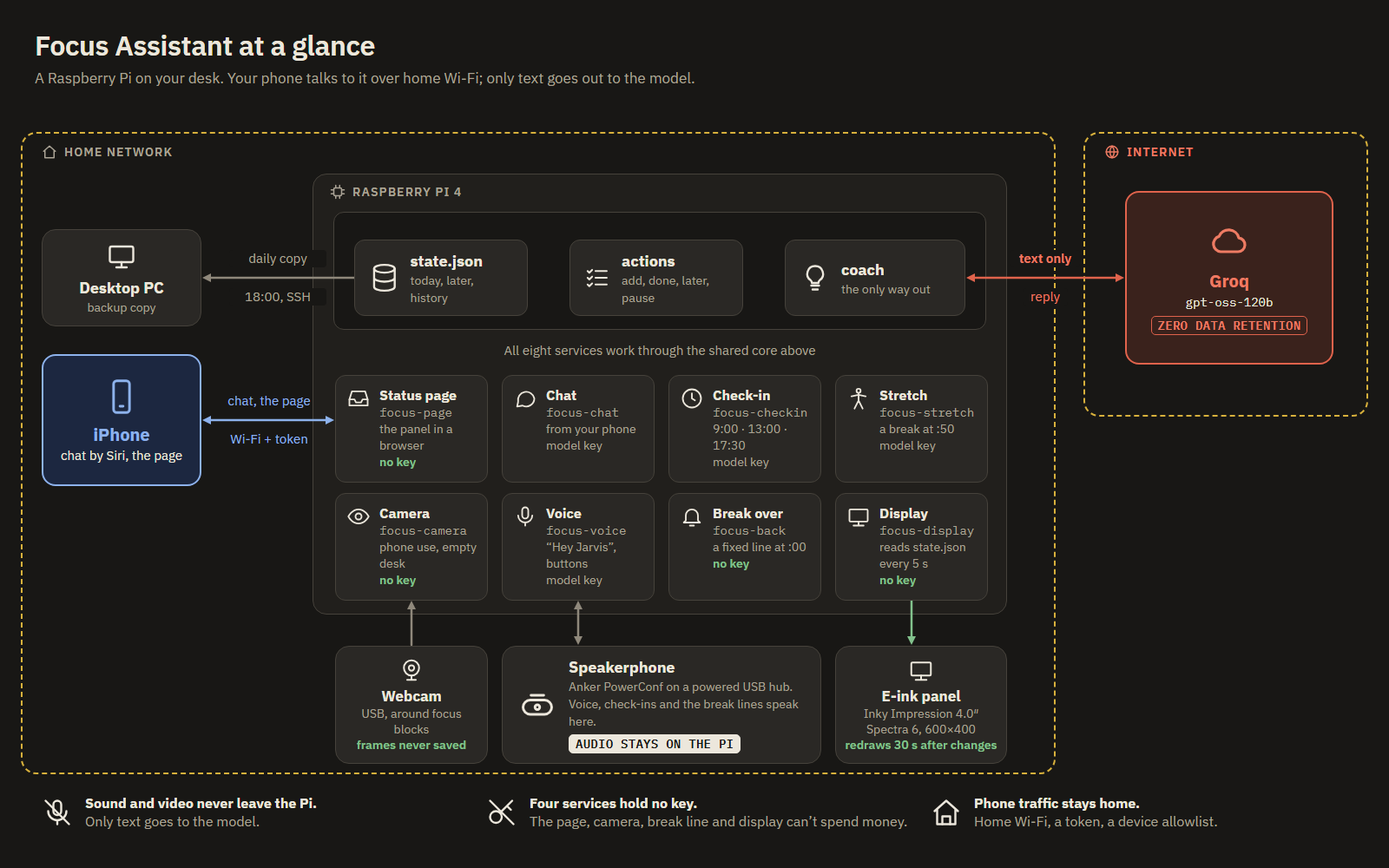
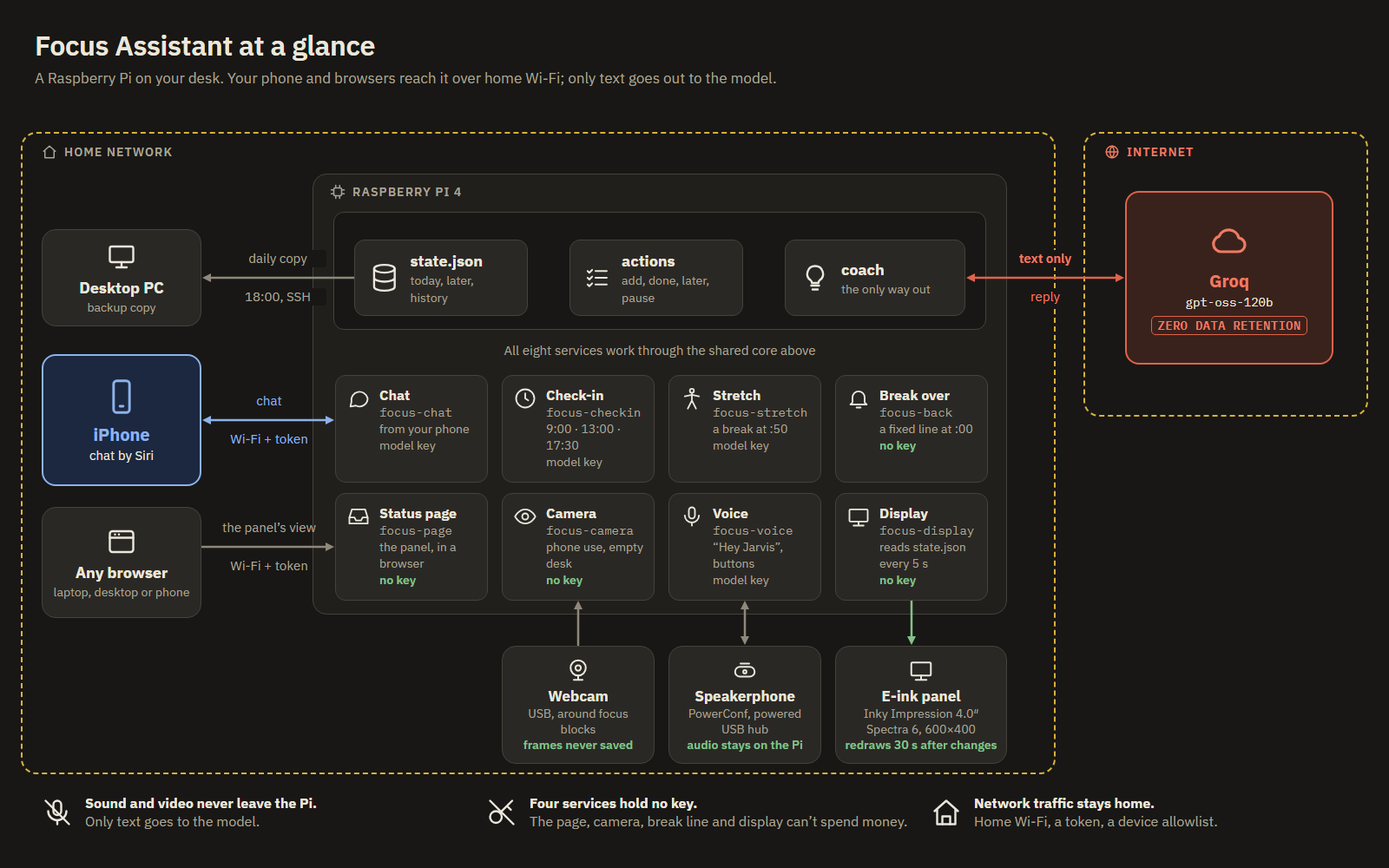
Show the status page as the panel's view in any browser; add a "What next" to install
The diagrams drew the status page as an iPhone feature next to chat. It's
the e-ink panel's view for any browser on the home network, so it now has
its own "Any browser" box (and label in the detailed diagram), and the
README no longer calls it a preview while the panel is on its way.

install.md ends its setup with a table of the optional features, what
each needs, and its guide, in an order that builds up. The hardware lists
and routine.md mention the webcam and what to do when it gets you wrong.

diff --git a/docs/diagrams/architecture-simple.html b/docs/diagrams/architecture-simple.html
@@ -32,17 +32,21 @@ a{color:#1f4f9c}a:hover{color:#191815}
 <svg width="152" height="8" viewBox="0 0 152 8" preserveAspectRatio="none" style="position: absolute; left: 233px; top: 480px; width: 152px; height: 8px; overflow: visible; fill: none; stroke: var(--phone); stroke-width: 2.5; stroke-linecap: round; stroke-linejoin: round"><defs><marker id="dc-arrow-head-filled-1" orient="auto-start-reverse" markerWidth="5" markerHeight="5" refX="2" refY="2" overflow="visible"><path d="M0 0 L4 2 L0 4 Z" fill="#1f4f9c" stroke="none" style="stroke: none; fill: #1f4f9c; fill: context-stroke"/></marker></defs><path d="M 5 4 L 147 4" marker-start="url(#dc-arrow-head-filled-1)" marker-end="url(#dc-arrow-head-filled-1)"></path></svg>
 <svg width="175" height="8" viewBox="0 0 175 8" preserveAspectRatio="none" style="position: absolute; left: 233px; top: 316px; width: 175px; height: 8px; overflow: visible; fill: none; stroke: var(--line); stroke-width: 2.5; stroke-linecap: round; stroke-linejoin: round"><defs><marker id="dc-arrow-head-filled-2" orient="auto" markerWidth="5" markerHeight="5" refX="2" refY="2" overflow="visible"><path d="M0 0 L4 2 L0 4 Z" fill="#847d70" stroke="none" style="stroke: none; fill: #847d70; fill: context-stroke"/></marker></defs><path d="M 175 4 L 5 4" marker-end="url(#dc-arrow-head-filled-2)"></path></svg>
 <svg width="182" height="8" viewBox="0 0 182 8" preserveAspectRatio="none" style="position: absolute; left: 1113px; top: 316px; width: 182px; height: 8px; overflow: visible; fill: none; stroke: var(--host-line); stroke-width: 2.5; stroke-linecap: round; stroke-linejoin: round"><defs><marker id="dc-arrow-head-filled-3" orient="auto-start-reverse" markerWidth="5" markerHeight="5" refX="2" refY="2" overflow="visible"><path d="M0 0 L4 2 L0 4 Z" fill="#c0392b" stroke="none" style="stroke: none; fill: #c0392b; fill: context-stroke"/></marker></defs><path d="M 5 4 L 177 4" marker-start="url(#dc-arrow-head-filled-3)" marker-end="url(#dc-arrow-head-filled-3)"></path></svg>
-<svg width="8" height="51" viewBox="0 0 8 51" preserveAspectRatio="none" style="position: absolute; left: 662px; top: 692px; width: 8px; height: 51px; overflow: visible; fill: none; stroke: var(--line); stroke-width: 2.5; stroke-linecap: round; stroke-linejoin: round"><defs><marker id="dc-arrow-head-filled-4" orient="auto-start-reverse" markerWidth="5" markerHeight="5" refX="2" refY="2" overflow="visible"><path d="M0 0 L4 2 L0 4 Z" fill="#847d70" stroke="none" style="stroke: none; fill: #847d70; fill: context-stroke"/></marker></defs><path d="M 4 5 L 4 46" marker-start="url(#dc-arrow-head-filled-4)" marker-end="url(#dc-arrow-head-filled-4)"></path></svg>
+<svg width="8" height="51" viewBox="0 0 8 51" preserveAspectRatio="none" style="position: absolute; left: 854px; top: 692px; width: 8px; height: 51px; overflow: visible; fill: none; stroke: var(--line); stroke-width: 2.5; stroke-linecap: round; stroke-linejoin: round"><defs><marker id="dc-arrow-head-filled-4" orient="auto-start-reverse" markerWidth="5" markerHeight="5" refX="2" refY="2" overflow="visible"><path d="M0 0 L4 2 L0 4 Z" fill="#847d70" stroke="none" style="stroke: none; fill: #847d70; fill: context-stroke"/></marker></defs><path d="M 4 5 L 4 46" marker-start="url(#dc-arrow-head-filled-4)" marker-end="url(#dc-arrow-head-filled-4)"></path></svg>
 <svg width="8" height="51" viewBox="0 0 8 51" preserveAspectRatio="none" style="position: absolute; left: 1046px; top: 692px; width: 8px; height: 51px; overflow: visible; fill: none; stroke: var(--nokey); stroke-width: 2.5; stroke-linecap: round; stroke-linejoin: round"><defs><marker id="dc-arrow-head-filled-5" orient="auto" markerWidth="5" markerHeight="5" refX="2" refY="2" overflow="visible"><path d="M0 0 L4 2 L0 4 Z" fill="#847d70" stroke="none" style="stroke: none; fill: #847d70; fill: context-stroke"/></marker></defs><path d="M 4 0 L 4 46" marker-end="url(#dc-arrow-head-filled-5)"></path></svg>
-<svg width="8" height="51" viewBox="0 0 8 51" preserveAspectRatio="none" style="position: absolute; left: 470px; top: 692px; width: 8px; height: 51px; overflow: visible; fill: none; stroke: var(--line); stroke-width: 2.5; stroke-linecap: round; stroke-linejoin: round"><defs><marker id="dc-arrow-head-filled-6" orient="auto" markerWidth="5" markerHeight="5" refX="2" refY="2" overflow="visible"><path d="M0 0 L4 2 L0 4 Z" fill="#847d70" stroke="none" style="stroke: none; fill: #847d70; fill: context-stroke"/></marker></defs><path d="M 4 51 L 4 5" marker-end="url(#dc-arrow-head-filled-6)"></path></svg>
+<svg width="8" height="51" viewBox="0 0 8 51" preserveAspectRatio="none" style="position: absolute; left: 662px; top: 692px; width: 8px; height: 51px; overflow: visible; fill: none; stroke: var(--line); stroke-width: 2.5; stroke-linecap: round; stroke-linejoin: round"><defs><marker id="dc-arrow-head-filled-6" orient="auto" markerWidth="5" markerHeight="5" refX="2" refY="2" overflow="visible"><path d="M0 0 L4 2 L0 4 Z" fill="#847d70" stroke="none" style="stroke: none; fill: #847d70; fill: context-stroke"/></marker></defs><path d="M 4 51 L 4 5" marker-end="url(#dc-arrow-head-filled-6)"></path></svg>
+
+<svg width="152" height="8" viewBox="0 0 152 8" preserveAspectRatio="none" style="position: absolute; left: 233px; top: 626px; width: 152px; height: 8px; overflow: visible; fill: none; stroke: var(--line); stroke-width: 2.5; stroke-linecap: round; stroke-linejoin: round"><defs><marker id="dc-arrow-head-filled-7" orient="auto" markerWidth="5" markerHeight="5" refX="2" refY="2" overflow="visible"><path d="M0 0 L4 2 L0 4 Z" fill="#847d70" stroke="none" style="stroke: none; fill: #847d70; fill: context-stroke"/></marker></defs><path d="M 0 4 L 147 4" marker-end="url(#dc-arrow-head-filled-7)"></path></svg>
 
 <!-- title -->
 <div style="position: absolute; left: 40px; top: 32px; font-size: 32px; line-height: 40px; font-weight: 600; letter-spacing: -0.01em">Focus Assistant at a glance</div>
-<div style="position: absolute; left: 40px; top: 78px; width: 900px; font-size: 17px; line-height: 24px; color: var(--muted)">A Raspberry Pi on your desk. Your phone talks to it over home Wi-Fi; only text goes out to the model.</div>
+<div style="position: absolute; left: 40px; top: 78px; width: 900px; font-size: 17px; line-height: 24px; color: var(--muted)">A Raspberry Pi on your desk. Your phone and browsers reach it over home Wi-Fi; only text goes out to the model.</div>
 
 <!-- people and devices -->
-<div style="position: absolute; left: 48px; top: 408px; width: 184px; height: 152px; box-sizing: border-box; display: flex; flex-direction: column; align-items: center; justify-content: center; gap: 8px; padding: 12px; text-align: center; background: var(--phone-bg); border: 2px solid var(--phone); border-radius: 16px; color: var(--phone)"><svg width="44" height="44" viewBox="0 0 24 24" fill="none" stroke="currentColor" stroke-width="1.6" stroke-linecap="round" stroke-linejoin="round" aria-hidden="true"><rect x="7" y="2" width="10" height="20" rx="2"></rect><path d="M11 18h2"></path></svg><span><b style="font-size: 20px">iPhone</b><br><span style="font-size: 15px; color: var(--ink)">chat by Siri, the page</span></span></div>
+<div style="position: absolute; left: 48px; top: 408px; width: 184px; height: 152px; box-sizing: border-box; display: flex; flex-direction: column; align-items: center; justify-content: center; gap: 8px; padding: 12px; text-align: center; background: var(--phone-bg); border: 2px solid var(--phone); border-radius: 16px; color: var(--phone)"><svg width="44" height="44" viewBox="0 0 24 24" fill="none" stroke="currentColor" stroke-width="1.6" stroke-linecap="round" stroke-linejoin="round" aria-hidden="true"><rect x="7" y="2" width="10" height="20" rx="2"></rect><path d="M11 18h2"></path></svg><span><b style="font-size: 20px">iPhone</b><br><span style="font-size: 15px; color: var(--ink)">chat by Siri</span></span></div>
 <div style="position: absolute; left: 48px; top: 264px; width: 184px; height: 112px; box-sizing: border-box; display: flex; flex-direction: column; align-items: center; justify-content: center; gap: 6px; padding: 10px; text-align: center; background: var(--card); border: 1.5px solid var(--border); border-radius: 16px"><svg width="36" height="36" viewBox="0 0 24 24" fill="none" stroke="currentColor" stroke-width="1.6" stroke-linecap="round" stroke-linejoin="round" aria-hidden="true"><rect x="3" y="4" width="18" height="12" rx="1.5"></rect><path d="M8 20h8M12 16v4"></path></svg><span><b style="font-size: 18px">Desktop PC</b><br><span class="s" style="font-size: 14px">backup copy</span></span></div>
+
+<div style="position: absolute; left: 48px; top: 584px; width: 184px; height: 128px; box-sizing: border-box; display: flex; flex-direction: column; align-items: center; justify-content: center; gap: 6px; padding: 10px; text-align: center; background: var(--card); border: 1.5px solid var(--border); border-radius: 16px"><svg width="36" height="36" viewBox="0 0 24 24" fill="none" stroke="currentColor" stroke-width="1.6" stroke-linecap="round" stroke-linejoin="round" aria-hidden="true"><rect x="3" y="4" width="18" height="16" rx="2"></rect><path d="M3 9h18M7 6.5h.01M10 6.5h.01"></path></svg><span><b style="font-size: 18px">Any browser</b><br><span class="s" style="font-size: 14px">laptop, desktop or phone</span></span></div>
 
 <!-- shared core -->
 <div style="position: absolute; left: 408px; top: 276px; width: 200px; height: 88px; box-sizing: border-box; display: flex; align-items: center; gap: 12px; padding: 10px 16px; background: var(--card); border: 1.5px solid var(--border); border-radius: 12px"><svg width="36" height="36" viewBox="0 0 24 24" fill="none" stroke="currentColor" stroke-width="1.6" stroke-linecap="round" stroke-linejoin="round" aria-hidden="true"><ellipse cx="12" cy="5" rx="8" ry="3"></ellipse><path d="M4 5v14c0 1.7 3.6 3 8 3s8-1.3 8-3V5M4 12c0 1.7 3.6 3 8 3s8-1.3 8-3"></path></svg><span><b style="font-size: 18px">state.json</b><br><span class="s" style="font-size: 14px">today, later, history</span></span></div>
@@ -50,35 +54,37 @@ a{color:#1f4f9c}a:hover{color:#191815}
 <div style="position: absolute; left: 904px; top: 276px; width: 208px; height: 88px; box-sizing: border-box; display: flex; align-items: center; gap: 12px; padding: 10px 16px; background: var(--card); border: 1.5px solid var(--border); border-radius: 12px"><svg width="36" height="36" viewBox="0 0 24 24" fill="none" stroke="currentColor" stroke-width="1.6" stroke-linecap="round" stroke-linejoin="round" aria-hidden="true"><path d="M9 18h6M10 21h4M12 3a6 6 0 0 0-3.5 10.9c.6.5 1 1.2 1 2.1h5c0-.9.4-1.6 1-2.1A6 6 0 0 0 12 3z"></path></svg><span><b style="font-size: 18px">coach</b><br><span class="s" style="font-size: 14px">the only way out</span></span></div>
 
 <!-- services -->
-<div style="position: absolute; left: 386px; top: 432px; width: 176px; height: 124px; box-sizing: border-box; display: flex; align-items: flex-start; gap: 10px; padding: 12px; background: var(--card); border: 1.5px solid var(--border); border-radius: 12px; font-size: 14px; line-height: 19px"><svg width="28" height="28" style="flex: none" viewBox="0 0 24 24" fill="none" stroke="currentColor" stroke-width="1.6" stroke-linecap="round" stroke-linejoin="round" aria-hidden="true"><path d="M3 13h5l1.5 3h5L16 13h5"></path><path d="M5.5 5h13L21 13v6H3v-6z"></path></svg><span><b style="font-size: 16px; line-height: 21px">Status page</b><br><span class="u">focus-page</span><br><span class="s">the panel in a browser</span><br><span class="nk">no key</span></span></div>
-<div style="position: absolute; left: 578px; top: 432px; width: 176px; height: 124px; box-sizing: border-box; display: flex; align-items: flex-start; gap: 10px; padding: 12px; background: var(--card); border: 1.5px solid var(--border); border-radius: 12px; font-size: 14px; line-height: 19px"><svg width="28" height="28" style="flex: none" viewBox="0 0 24 24" fill="none" stroke="currentColor" stroke-width="1.6" stroke-linecap="round" stroke-linejoin="round" aria-hidden="true"><path d="M21 12a8 8 0 0 1-11.6 7.1L4 20l1-4.6A8 8 0 1 1 21 12z"></path></svg><span><b style="font-size: 16px; line-height: 21px">Chat</b><br><span class="u">focus-chat</span><br><span class="s">from your phone</span><br><span class="s">model key</span></span></div>
-<div style="position: absolute; left: 770px; top: 432px; width: 176px; height: 124px; box-sizing: border-box; display: flex; align-items: flex-start; gap: 10px; padding: 12px; background: var(--card); border: 1.5px solid var(--border); border-radius: 12px; font-size: 14px; line-height: 19px"><svg width="28" height="28" style="flex: none" viewBox="0 0 24 24" fill="none" stroke="currentColor" stroke-width="1.6" stroke-linecap="round" stroke-linejoin="round" aria-hidden="true"><circle cx="12" cy="12" r="9"></circle><path d="M12 7v5l3 2"></path></svg><span><b style="font-size: 16px; line-height: 21px">Check-in</b><br><span class="u">focus-checkin</span><br><span class="s">9:00 · 13:00 · 17:30</span><br><span class="s">model key</span></span></div>
-<div style="position: absolute; left: 962px; top: 432px; width: 176px; height: 124px; box-sizing: border-box; display: flex; align-items: flex-start; gap: 10px; padding: 12px; background: var(--card); border: 1.5px solid var(--border); border-radius: 12px; font-size: 14px; line-height: 19px"><svg width="28" height="28" style="flex: none" viewBox="0 0 24 24" fill="none" stroke="currentColor" stroke-width="1.6" stroke-linecap="round" stroke-linejoin="round" aria-hidden="true"><circle cx="12" cy="4.5" r="2"></circle><path d="M12 7.5v6.5M8 22l4-8 4 8M5 10l7-1.5 7 1.5"></path></svg><span><b style="font-size: 16px; line-height: 21px">Stretch</b><br><span class="u">focus-stretch</span><br><span class="s">a break at :50</span><br><span class="s">model key</span></span></div>
-<div style="position: absolute; left: 770px; top: 568px; width: 176px; height: 124px; box-sizing: border-box; display: flex; align-items: flex-start; gap: 10px; padding: 12px; background: var(--card); border: 1.5px solid var(--border); border-radius: 12px; font-size: 14px; line-height: 19px"><svg width="28" height="28" style="flex: none" viewBox="0 0 24 24" fill="none" stroke="currentColor" stroke-width="1.6" stroke-linecap="round" stroke-linejoin="round" aria-hidden="true"><path d="M6 16V11a6 6 0 0 1 12 0v5l2 2H4z"></path><path d="M10 21h4"></path></svg><span><b style="font-size: 16px; line-height: 21px">Break over</b><br><span class="u">focus-back</span><br><span class="s">a fixed line at :00</span><br><span class="nk">no key</span></span></div>
-<div style="position: absolute; left: 578px; top: 568px; width: 176px; height: 124px; box-sizing: border-box; display: flex; align-items: flex-start; gap: 10px; padding: 12px; background: var(--card); border: 1.5px solid var(--border); border-radius: 12px; font-size: 14px; line-height: 19px"><svg width="28" height="28" style="flex: none" viewBox="0 0 24 24" fill="none" stroke="currentColor" stroke-width="1.6" stroke-linecap="round" stroke-linejoin="round" aria-hidden="true"><rect x="9" y="3" width="6" height="11" rx="3"></rect><path d="M5 11a7 7 0 0 0 14 0M12 18v3"></path></svg><span><b style="font-size: 16px; line-height: 21px">Voice</b><br><span class="u">focus-voice</span><br><span class="s">“Hey Jarvis”, buttons</span><br><span class="s">model key</span></span></div>
+<div style="position: absolute; left: 386px; top: 568px; width: 176px; height: 124px; box-sizing: border-box; display: flex; align-items: flex-start; gap: 10px; padding: 12px; background: var(--card); border: 1.5px solid var(--border); border-radius: 12px; font-size: 14px; line-height: 19px"><svg width="28" height="28" style="flex: none" viewBox="0 0 24 24" fill="none" stroke="currentColor" stroke-width="1.6" stroke-linecap="round" stroke-linejoin="round" aria-hidden="true"><path d="M3 13h5l1.5 3h5L16 13h5"></path><path d="M5.5 5h13L21 13v6H3v-6z"></path></svg><span><b style="font-size: 16px; line-height: 21px">Status page</b><br><span class="u">focus-page</span><br><span class="s">the panel, in a browser</span><br><span class="nk">no key</span></span></div>
+<div style="position: absolute; left: 386px; top: 432px; width: 176px; height: 124px; box-sizing: border-box; display: flex; align-items: flex-start; gap: 10px; padding: 12px; background: var(--card); border: 1.5px solid var(--border); border-radius: 12px; font-size: 14px; line-height: 19px"><svg width="28" height="28" style="flex: none" viewBox="0 0 24 24" fill="none" stroke="currentColor" stroke-width="1.6" stroke-linecap="round" stroke-linejoin="round" aria-hidden="true"><path d="M21 12a8 8 0 0 1-11.6 7.1L4 20l1-4.6A8 8 0 1 1 21 12z"></path></svg><span><b style="font-size: 16px; line-height: 21px">Chat</b><br><span class="u">focus-chat</span><br><span class="s">from your phone</span><br><span class="s">model key</span></span></div>
+<div style="position: absolute; left: 578px; top: 432px; width: 176px; height: 124px; box-sizing: border-box; display: flex; align-items: flex-start; gap: 10px; padding: 12px; background: var(--card); border: 1.5px solid var(--border); border-radius: 12px; font-size: 14px; line-height: 19px"><svg width="28" height="28" style="flex: none" viewBox="0 0 24 24" fill="none" stroke="currentColor" stroke-width="1.6" stroke-linecap="round" stroke-linejoin="round" aria-hidden="true"><circle cx="12" cy="12" r="9"></circle><path d="M12 7v5l3 2"></path></svg><span><b style="font-size: 16px; line-height: 21px">Check-in</b><br><span class="u">focus-checkin</span><br><span class="s">9:00 · 13:00 · 17:30</span><br><span class="s">model key</span></span></div>
+<div style="position: absolute; left: 770px; top: 432px; width: 176px; height: 124px; box-sizing: border-box; display: flex; align-items: flex-start; gap: 10px; padding: 12px; background: var(--card); border: 1.5px solid var(--border); border-radius: 12px; font-size: 14px; line-height: 19px"><svg width="28" height="28" style="flex: none" viewBox="0 0 24 24" fill="none" stroke="currentColor" stroke-width="1.6" stroke-linecap="round" stroke-linejoin="round" aria-hidden="true"><circle cx="12" cy="4.5" r="2"></circle><path d="M12 7.5v6.5M8 22l4-8 4 8M5 10l7-1.5 7 1.5"></path></svg><span><b style="font-size: 16px; line-height: 21px">Stretch</b><br><span class="u">focus-stretch</span><br><span class="s">a break at :50</span><br><span class="s">model key</span></span></div>
+<div style="position: absolute; left: 962px; top: 432px; width: 176px; height: 124px; box-sizing: border-box; display: flex; align-items: flex-start; gap: 10px; padding: 12px; background: var(--card); border: 1.5px solid var(--border); border-radius: 12px; font-size: 14px; line-height: 19px"><svg width="28" height="28" style="flex: none" viewBox="0 0 24 24" fill="none" stroke="currentColor" stroke-width="1.6" stroke-linecap="round" stroke-linejoin="round" aria-hidden="true"><path d="M6 16V11a6 6 0 0 1 12 0v5l2 2H4z"></path><path d="M10 21h4"></path></svg><span><b style="font-size: 16px; line-height: 21px">Break over</b><br><span class="u">focus-back</span><br><span class="s">a fixed line at :00</span><br><span class="nk">no key</span></span></div>
+<div style="position: absolute; left: 770px; top: 568px; width: 176px; height: 124px; box-sizing: border-box; display: flex; align-items: flex-start; gap: 10px; padding: 12px; background: var(--card); border: 1.5px solid var(--border); border-radius: 12px; font-size: 14px; line-height: 19px"><svg width="28" height="28" style="flex: none" viewBox="0 0 24 24" fill="none" stroke="currentColor" stroke-width="1.6" stroke-linecap="round" stroke-linejoin="round" aria-hidden="true"><rect x="9" y="3" width="6" height="11" rx="3"></rect><path d="M5 11a7 7 0 0 0 14 0M12 18v3"></path></svg><span><b style="font-size: 16px; line-height: 21px">Voice</b><br><span class="u">focus-voice</span><br><span class="s">“Hey Jarvis”, buttons</span><br><span class="s">model key</span></span></div>
 <div style="position: absolute; left: 962px; top: 568px; width: 176px; height: 124px; box-sizing: border-box; display: flex; align-items: flex-start; gap: 10px; padding: 12px; background: var(--card); border: 1.5px solid var(--border); border-radius: 12px; font-size: 14px; line-height: 19px"><svg width="28" height="28" style="flex: none" viewBox="0 0 24 24" fill="none" stroke="currentColor" stroke-width="1.6" stroke-linecap="round" stroke-linejoin="round" aria-hidden="true"><rect x="3" y="5" width="18" height="12" rx="1"></rect><path d="M7 21h10M12 17v4"></path></svg><span><b style="font-size: 16px; line-height: 21px">Display</b><br><span class="u">focus-display</span><br><span class="s">reads state.json every 5 s</span><br><span class="nk">no key</span></span></div>
 
-<div style="position: absolute; left: 386px; top: 568px; width: 176px; height: 124px; box-sizing: border-box; display: flex; align-items: flex-start; gap: 10px; padding: 12px; background: var(--card); border: 1.5px solid var(--border); border-radius: 12px; font-size: 14px; line-height: 19px"><svg width="28" height="28" style="flex: none" viewBox="0 0 24 24" fill="none" stroke="currentColor" stroke-width="1.6" stroke-linecap="round" stroke-linejoin="round" aria-hidden="true"><path d="M2 12s3.5-7 10-7 10 7 10 7-3.5 7-10 7S2 12 2 12z"></path><circle cx="12" cy="12" r="3"></circle></svg><span><b style="font-size: 16px; line-height: 21px">Camera</b><br><span class="u">focus-camera</span><br><span class="s">phone use, empty desk</span><br><span class="nk">no key</span></span></div>
+<div style="position: absolute; left: 578px; top: 568px; width: 176px; height: 124px; box-sizing: border-box; display: flex; align-items: flex-start; gap: 10px; padding: 12px; background: var(--card); border: 1.5px solid var(--border); border-radius: 12px; font-size: 14px; line-height: 19px"><svg width="28" height="28" style="flex: none" viewBox="0 0 24 24" fill="none" stroke="currentColor" stroke-width="1.6" stroke-linecap="round" stroke-linejoin="round" aria-hidden="true"><path d="M2 12s3.5-7 10-7 10 7 10 7-3.5 7-10 7S2 12 2 12z"></path><circle cx="12" cy="12" r="3"></circle></svg><span><b style="font-size: 16px; line-height: 21px">Camera</b><br><span class="u">focus-camera</span><br><span class="s">phone use, empty desk</span><br><span class="nk">no key</span></span></div>
 
 <!-- hardware and host -->
-<div style="position: absolute; left: 578px; top: 744px; width: 368px; height: 136px; box-sizing: border-box; display: flex; align-items: center; gap: 14px; padding: 12px 18px; background: var(--card); border: 1.5px solid var(--border); border-radius: 16px"><svg width="44" height="44" style="flex: none" viewBox="0 0 24 24" fill="none" stroke="currentColor" stroke-width="1.6" stroke-linecap="round" stroke-linejoin="round" aria-hidden="true"><rect x="3" y="9" width="18" height="9" rx="4.5"></rect><circle cx="12" cy="13.5" r="1.5"></circle><path d="M8 6h8"></path></svg><span><b style="font-size: 18px">Speakerphone</b><br><span class="s" style="font-size: 14px">Anker PowerConf on a powered USB hub. Voice, check-ins and the break lines speak here.</span><br><span class="kb no" style="margin-top: 6px">AUDIO STAYS ON THE PI</span></span></div>
+<div style="position: absolute; left: 770px; top: 744px; width: 176px; height: 136px; box-sizing: border-box; display: flex; flex-direction: column; align-items: center; justify-content: center; gap: 4px; padding: 8px 10px; text-align: center; background: var(--card); border: 1.5px solid var(--border); border-radius: 16px"><svg width="30" height="30" style="flex: none" viewBox="0 0 24 24" fill="none" stroke="currentColor" stroke-width="1.6" stroke-linecap="round" stroke-linejoin="round" aria-hidden="true"><rect x="3" y="9" width="18" height="9" rx="4.5"></rect><circle cx="12" cy="13.5" r="1.5"></circle><path d="M8 6h8"></path></svg><span style="font-size: 14px; line-height: 18px"><b style="font-size: 17px; line-height: 22px">Speakerphone</b><br><span class="s">PowerConf, powered USB hub</span><br><span class="nk">audio stays on the Pi</span></span></div>
 <div style="position: absolute; left: 962px; top: 744px; width: 198px; height: 136px; box-sizing: border-box; display: flex; flex-direction: column; align-items: center; justify-content: center; gap: 4px; padding: 8px 10px; text-align: center; background: var(--card); border: 1.5px solid var(--border); border-radius: 16px"><svg width="30" height="30" style="flex: none" viewBox="0 0 24 24" fill="none" stroke="currentColor" stroke-width="1.6" stroke-linecap="round" stroke-linejoin="round" aria-hidden="true"><rect x="3" y="5" width="18" height="12" rx="1"></rect><path d="M7 21h10M12 17v4"></path></svg><span style="font-size: 14px; line-height: 18px"><b style="font-size: 17px; line-height: 22px">E-ink panel</b><br><span class="s">Inky Impression 4.0″ Spectra 6, 600×400</span><br><span class="nk">redraws 30 s after changes</span></span></div>
 <div style="position: absolute; left: 1296px; top: 220px; width: 240px; height: 200px; box-sizing: border-box; display: flex; flex-direction: column; align-items: center; justify-content: center; gap: 8px; padding: 14px; text-align: center; background: var(--host-bg); border: 2px solid var(--host-line); border-radius: 16px; color: var(--host)"><svg width="48" height="48" viewBox="0 0 24 24" fill="none" stroke="currentColor" stroke-width="1.6" stroke-linecap="round" stroke-linejoin="round" aria-hidden="true"><path d="M7 18h10a4 4 0 0 0 .5-7.97A6 6 0 0 0 6.1 9.2 4.5 4.5 0 0 0 7 18z"></path></svg><span><b style="font-size: 20px">Groq</b><br><span style="font: 14px/20px 'IBM Plex Mono', monospace; color: var(--ink)">gpt-oss-120b</span><br><span class="kb" style="margin-top: 6px; border-color: var(--host-line); color: var(--host)">ZERO DATA RETENTION</span></span></div>
 
-<div style="position: absolute; left: 386px; top: 744px; width: 176px; height: 136px; box-sizing: border-box; display: flex; flex-direction: column; align-items: center; justify-content: center; gap: 4px; padding: 8px 10px; text-align: center; background: var(--card); border: 1.5px solid var(--border); border-radius: 16px"><svg width="30" height="30" style="flex: none" viewBox="0 0 24 24" fill="none" stroke="currentColor" stroke-width="1.6" stroke-linecap="round" stroke-linejoin="round" aria-hidden="true"><circle cx="12" cy="10" r="7"></circle><circle cx="12" cy="10" r="2.5"></circle><path d="M8 21h8M12 17v4"></path></svg><span style="font-size: 14px; line-height: 18px"><b style="font-size: 17px; line-height: 22px">Webcam</b><br><span class="s">USB, around focus blocks</span><br><span class="nk">frames never saved</span></span></div>
+<div style="position: absolute; left: 578px; top: 744px; width: 176px; height: 136px; box-sizing: border-box; display: flex; flex-direction: column; align-items: center; justify-content: center; gap: 4px; padding: 8px 10px; text-align: center; background: var(--card); border: 1.5px solid var(--border); border-radius: 16px"><svg width="30" height="30" style="flex: none" viewBox="0 0 24 24" fill="none" stroke="currentColor" stroke-width="1.6" stroke-linecap="round" stroke-linejoin="round" aria-hidden="true"><circle cx="12" cy="10" r="7"></circle><circle cx="12" cy="10" r="2.5"></circle><path d="M8 21h8M12 17v4"></path></svg><span style="font-size: 14px; line-height: 18px"><b style="font-size: 17px; line-height: 22px">Webcam</b><br><span class="s">USB, around focus blocks</span><br><span class="nk">frames never saved</span></span></div>
 
 <!-- privacy strip -->
 <div style="position: absolute; left: 48px; top: 904px; width: 488px; height: 64px; display: flex; align-items: center; gap: 14px; font-size: 16px; line-height: 21px"><svg width="36" height="36" viewBox="0 0 24 24" fill="none" stroke="currentColor" stroke-width="1.6" stroke-linecap="round" stroke-linejoin="round" aria-hidden="true"><rect x="9" y="3" width="6" height="11" rx="3"></rect><path d="M5 11a7 7 0 0 0 14 0M12 18v3M3 3l18 18"></path></svg><span><b>Sound and video never leave the Pi.</b><br><span class="s">Only text goes to the model.</span></span></div>
 <div style="position: absolute; left: 560px; top: 904px; width: 488px; height: 64px; display: flex; align-items: center; gap: 14px; font-size: 16px; line-height: 21px"><svg width="36" height="36" viewBox="0 0 24 24" fill="none" stroke="currentColor" stroke-width="1.6" stroke-linecap="round" stroke-linejoin="round" aria-hidden="true"><circle cx="7.5" cy="15.5" r="4.5"></circle><path d="M10.7 12.3L20 3M16 7l3 3M3 3l18 18"></path></svg><span><b>Four services hold no key.</b><br><span class="s">The page, camera, break line and display can’t spend money.</span></span></div>
-<div style="position: absolute; left: 1072px; top: 904px; width: 496px; height: 64px; display: flex; align-items: center; gap: 14px; font-size: 16px; line-height: 21px"><svg width="36" height="36" viewBox="0 0 24 24" fill="none" stroke="currentColor" stroke-width="1.6" stroke-linecap="round" stroke-linejoin="round" aria-hidden="true"><path d="M3 11l9-8 9 8M5 9.5V21h14V9.5"></path><path d="M9 21v-6h6v6"></path></svg><span><b>Phone traffic stays home.</b><br><span class="s">Home Wi-Fi, a token, a device allowlist.</span></span></div>
+<div style="position: absolute; left: 1072px; top: 904px; width: 496px; height: 64px; display: flex; align-items: center; gap: 14px; font-size: 16px; line-height: 21px"><svg width="36" height="36" viewBox="0 0 24 24" fill="none" stroke="currentColor" stroke-width="1.6" stroke-linecap="round" stroke-linejoin="round" aria-hidden="true"><path d="M3 11l9-8 9 8M5 9.5V21h14V9.5"></path><path d="M9 21v-6h6v6"></path></svg><span><b>Network traffic stays home.</b><br><span class="s">Home Wi-Fi, a token, a device allowlist.</span></span></div>
 
 <!-- labels -->
 <div class="cap" style="position: absolute; left: 48px; top: 166px"><svg width="18" height="18" viewBox="0 0 24 24" fill="none" stroke="currentColor" stroke-width="2" stroke-linecap="round" stroke-linejoin="round" aria-hidden="true"><path d="M3 11l9-8 9 8M5 9.5V21h14V9.5"></path></svg>HOME NETWORK</div>
 <div class="cap" style="position: absolute; left: 1272px; top: 166px; color: var(--host)"><svg width="18" height="18" viewBox="0 0 24 24" fill="none" stroke="currentColor" stroke-width="2" stroke-linecap="round" stroke-linejoin="round" aria-hidden="true"><circle cx="12" cy="12" r="9"></circle><path d="M3 12h18M12 3a14 14 0 0 1 0 18M12 3a14 14 0 0 0 0 18"></path></svg>INTERNET</div>
 <div class="cap" style="position: absolute; left: 380px; top: 212px"><svg width="18" height="18" viewBox="0 0 24 24" fill="none" stroke="currentColor" stroke-width="2" stroke-linecap="round" stroke-linejoin="round" aria-hidden="true"><rect x="6" y="6" width="12" height="12" rx="2"></rect><path d="M9 2v4M15 2v4M9 18v4M15 18v4M2 9h4M2 15h4M18 9h4M18 15h4"></path></svg>RASPBERRY PI 4</div>
 <div style="position: absolute; left: 460px; top: 394px; width: 600px; text-align: center; font-size: 15px; line-height: 20px; color: var(--muted)">All eight services work through the shared core above</div>
-<div style="position: absolute; left: 238px; top: 452px; width: 144px; text-align: center; font-size: 15px; line-height: 20px; color: var(--phone)">chat, the page</div>
+<div style="position: absolute; left: 238px; top: 452px; width: 144px; text-align: center; font-size: 15px; line-height: 20px; color: var(--phone)">chat</div>
 <div style="position: absolute; left: 234px; top: 496px; width: 152px; text-align: center; font-size: 15px; line-height: 20px; color: var(--phone)">Wi-Fi + token</div>
+<div style="position: absolute; left: 234px; top: 598px; width: 152px; text-align: center; font-size: 15px; line-height: 20px; color: var(--muted)">the panel’s view</div>
+<div style="position: absolute; left: 234px; top: 642px; width: 152px; text-align: center; font-size: 15px; line-height: 20px; color: var(--muted)">Wi-Fi + token</div>
 <div style="position: absolute; left: 264px; top: 288px; width: 112px; text-align: center; font-size: 15px; line-height: 20px; color: var(--muted); background: var(--bg); border-radius: 4px">daily copy</div>
 <div style="position: absolute; left: 264px; top: 332px; width: 112px; text-align: center; font-size: 15px; line-height: 20px; color: var(--muted); background: var(--bg); border-radius: 4px">18:00, SSH</div>
 <div style="position: absolute; left: 1164px; top: 288px; width: 80px; text-align: center; font-size: 15px; line-height: 20px; font-weight: 600; color: var(--host); background: var(--bg); border-radius: 4px">text only</div>

diff --git a/docs/diagrams/architecture.html b/docs/diagrams/architecture.html
@@ -69,7 +69,7 @@ a{color:#1f4f9c}a:hover{color:#191815}
 </div>
 
 <!-- cards -->
-<div style="position: absolute; left: 40px; top: 200px; width: 192px; height: 192px; box-sizing: border-box; display: flex; flex-direction: column; align-items: flex-start; justify-content: center; gap: 6px; padding: 10px 14px; background: var(--phone-bg); border: 2px solid var(--phone); border-radius: 14px; font-size: 15px; line-height: 20px; color: var(--phone)"><svg width="22" height="22" viewBox="0 0 24 24" fill="none" stroke="currentColor" stroke-width="1.8" stroke-linecap="round" stroke-linejoin="round" aria-hidden="true"><rect x="7" y="2" width="10" height="20" rx="2"></rect><path d="M11 18h2"></path></svg><span><b style="font-size: 18px">iPhone</b><br><span style="color: var(--ink)">Coach shortcut (Siri), the status page</span><br><span style="color: var(--ink)">home Wi-Fi only</span></span></div>
+<div style="position: absolute; left: 40px; top: 200px; width: 192px; height: 192px; box-sizing: border-box; display: flex; flex-direction: column; align-items: flex-start; justify-content: center; gap: 6px; padding: 10px 14px; background: var(--phone-bg); border: 2px solid var(--phone); border-radius: 14px; font-size: 15px; line-height: 20px; color: var(--phone)"><svg width="22" height="22" viewBox="0 0 24 24" fill="none" stroke="currentColor" stroke-width="1.8" stroke-linecap="round" stroke-linejoin="round" aria-hidden="true"><rect x="7" y="2" width="10" height="20" rx="2"></rect><path d="M11 18h2"></path></svg><span><b style="font-size: 18px">iPhone, browsers</b><br><span style="color: var(--ink)">chat: the Coach shortcut (Siri); the page: any browser</span><br><span style="color: var(--ink)">home Wi-Fi only</span></span></div>
 <div style="position: absolute; left: 40px; top: 444px; width: 192px; height: 128px; box-sizing: border-box; display: flex; flex-direction: column; align-items: flex-start; justify-content: center; gap: 6px; padding: 10px 14px; background: var(--card); border: 1.5px solid var(--border); border-radius: 12px; font-size: 15px; line-height: 20px"><svg width="22" height="22" viewBox="0 0 24 24" fill="none" stroke="currentColor" stroke-width="1.8" stroke-linecap="round" stroke-linejoin="round" aria-hidden="true"><rect x="3" y="4" width="18" height="12" rx="1.5"></rect><path d="M8 20h8M12 16v4"></path></svg><span><b style="font-size: 18px">Desktop PC</b><br><span class="s">off-Pi backup; its SSH key can only read state.json</span></span></div>
 
 <div style="position: absolute; left: 448px; top: 200px; width: 248px; height: 80px; box-sizing: border-box; display: flex; align-items: center; padding: 8px 12px; background: var(--card); border: 1.5px solid var(--border); border-radius: 10px; font-size: 15px; line-height: 20px"><span><b class="t">focus-page</b><span class="kb nk">NO KEY</span><br><span class="s">the panel’s layout as a web page, read-only</span></span></div>
@@ -100,12 +100,12 @@ a{color:#1f4f9c}a:hover{color:#191815}
 <div style="font-size: 18px; line-height: 24px; font-weight: 600">Privacy and security</div>
 <div><b>Sound and video never leave the Pi.</b> <span class="s">Speech and the camera’s model run on the Pi; frames are never saved. The model gets text only.</span></div>
 <div><b>Four services hold no model key.</b> <span class="s">The page, the camera, the break line and the display can’t spend money.</span></div>
-<div><b>Phone traffic stays home.</b> <span class="s">Private addresses only, a token per service, optional device allowlist.</span></div>
+<div><b>Network traffic stays home.</b> <span class="s">Private addresses only, a token per service, optional device allowlist.</span></div>
 <div><b>Every service is sandboxed.</b> <span class="s">Your user, never root; read-only system; no ~/.ssh; no capabilities.</span></div>
 </div>
 
 <!-- arrow labels -->
-<div style="position: absolute; left: 254px; top: 199px; width: 172px; text-align: center; font-size: 16px; line-height: 20px; color: var(--phone); background: var(--bg); border-radius: 4px">page request + token</div>
+<div style="position: absolute; left: 254px; top: 199px; width: 172px; text-align: center; font-size: 16px; line-height: 20px; color: var(--phone); background: var(--bg); border-radius: 4px">status page + token</div>
 <div style="position: absolute; left: 260px; top: 311px; width: 160px; text-align: center; font-size: 16px; line-height: 20px; color: var(--phone); background: var(--bg); border-radius: 4px">message text + token</div>
 <div style="position: absolute; left: 300px; top: 377px; width: 80px; text-align: center; font-size: 16px; line-height: 20px; color: var(--phone); background: var(--bg); border-radius: 4px">reply text</div>
 <div style="position: absolute; left: 796px; top: 315px; width: 112px; font-size: 16px; line-height: 20px; color: var(--muted)">reads state.json</div>

diff --git a/README.md b/README.md
@@ -23,7 +23,7 @@ How the parts fit:
 
 <picture>
   <source media="(prefers-color-scheme: dark)" srcset="docs/diagrams/architecture-simple-dark.png">
-  <img alt="At a glance: the iPhone, the Pi's shared core and eight services, the webcam, the speakerphone, the e-ink panel, and Groq, which only receives text" src="docs/diagrams/architecture-simple.png">
+  <img alt="At a glance: the iPhone for chat, any browser for the status page, the Pi's shared core and eight services, the webcam, the speakerphone, the e-ink panel, and Groq, which only receives text" src="docs/diagrams/architecture-simple.png">
 </picture>
 
 More diagrams, including a weekday timeline, are in
@@ -37,7 +37,7 @@ More diagrams, including a weekday timeline, are in
 | A **to-do list** (not ranked) from the command line: `focus add`, `focus done`, `focus later` ... unfinished items carry over, each check-in suggests one to start with, and the coach notices when something keeps slipping | nothing extra |
 | **Spoken check-ins** and **stretch reminders** (50 minutes of work, 10 of break) | a USB speaker |
 | **Voice commands** at the desk: "Hey Jarvis, done with the report", "what should I do now?", plus buttons on a speakerphone | a USB speakerphone |
-| A **status page** that previews the e-ink display in a browser while the panel is on its way, for development: today's open items, the coach's last words, focus block, phone, breaks | nothing extra |
+| A **status page**: the e-ink panel's view in any browser on your network (laptop, desktop or phone), with a status strip under it: focus block, phone, breaks | nothing extra |
 | **Phone use**: a desk camera notices when you pick up your phone during focus time, and after 5 minutes on it the coach says so | a USB webcam, and a PC to train its model once on your own desk |
 | **Chat** with the coach from your phone, typed or through Siri | an iOS Shortcut |
 | **Pause** for a meeting or a few days off: "quiet until 11", "off until Monday" | nothing extra |
@@ -186,8 +186,8 @@ check-ins fall back to a fixed nudge built from your list.
 ## Status
 
 A personal project, shared as is. It's used daily on a Raspberry Pi 4 with
-an Anker PowerConf speakerphone, an Inky Impression 4.0" Spectra 6 and an
-iPhone. Other hardware is untested. Issues and pull requests are welcome.
+an Anker PowerConf speakerphone, an Inky Impression 4.0" Spectra 6, a Lenovo
+USB webcam and an iPhone. Other hardware is untested. Issues and pull requests are welcome.
 
 ## Development
 

diff --git a/docs/install.md b/docs/install.md
@@ -72,6 +72,28 @@ sudo systemctl start focus-checkin
 journalctl -u focus-checkin -n 20      # or: focus last
 ```
 
+The core is running: check-ins come at 09:00, 13:00 and 17:30 on their
+own. For how to use it day to day, see [routine.md](routine.md).
+
+## 4. What next
+
+Every feature below is optional, and each guide stands on its own. In
+this order, each one builds on the ones before it:
+
+| Feature | You need | Guide |
+|---|---|---|
+| Spoken check-ins and stretch reminders | a USB speaker or speakerphone | [voice.md, 1](voice.md#1-speaker-and-spoken-check-ins) and [5](voice.md#5-stretch-reminders) |
+| Voice commands, wake word, Call button | a USB speakerphone (Anker PowerConf tested) | [voice.md, 2 to 4](voice.md#2-voice-commands) |
+| The e-ink panel | a Pimoroni Inky Impression 4.0" | [architecture.md, E-ink display](architecture.md#e-ink-display) |
+| The status page: the panel's view in any browser | nothing extra | [phone.md, Status page](phone.md#status-page) |
+| Chat from your phone, typed or through Siri | an iPhone (one Shortcut) | [phone.md, Chat](phone.md#chat) |
+| Phone use, the phone nudge, and presence | a USB webcam, and a PC to train its model once | [camera.md](camera.md) |
+| A daily copy of your list on another computer | a PC or Mac that's on at 18:00 | [backup.md](backup.md) |
+
+The phone nudge and held check-ins are spoken, so the camera is most
+useful with a speaker set up first. Every setting is in
+[configuration.md](configuration.md).
+
 ## Schedule
 
 Check-ins run Monday to Friday at **09:00, 13:00 and 17:30**. Which kind of

diff --git a/docs/architecture.md b/docs/architecture.md
@@ -16,7 +16,7 @@ At a glance:
 
 <picture>
   <source media="(prefers-color-scheme: dark)" srcset="diagrams/architecture-simple-dark.png">
-  <img alt="At a glance: the iPhone, the Pi's shared core and eight services, the webcam, the speakerphone, the e-ink panel, and Groq, which only receives text" src="diagrams/architecture-simple.png">
+  <img alt="At a glance: the iPhone for chat, any browser for the status page, the Pi's shared core and eight services, the webcam, the speakerphone, the e-ink panel, and Groq, which only receives text" src="diagrams/architecture-simple.png">
 </picture>
 
 <picture>
@@ -49,7 +49,7 @@ In detail:
 The sources are the HTML files in [`diagrams/`](diagrams/) (1600x1000, light
 or dark from the browser's setting); [`diagrams/README.md`](diagrams/README.md)
 says how to re-export the PNGs after an edit. The drawings describe one setup: Groq
-running `openai/gpt-oss-120b`, an Anker PowerConf on a powered USB hub, and
+running `openai/gpt-oss-120b`, an Anker PowerConf and a USB webcam on a powered USB hub, and
 a desktop PC that copies `state.json` at 18:00.
 
 ```

diff --git a/docs/routine.md b/docs/routine.md
@@ -38,6 +38,7 @@ coach, from your phone ("Hey Siri, Coach") or at the desk ("Hey Jarvis").
 | A reply misses | `focus rate bad "it's Sunday"`, or tell the coach "that was wrong". A good one: `focus rate good`. |
 | Every two weeks | `focus feedback`, then bring the output to a Claude Code session to improve the coach. |
 | Monthly | Update the Pi ([install.md, Updating](install.md#updating)). Check that new copies are arriving in `~/focus-backups` on the PC ([backup.md](backup.md)). `focus status` shows the day's API cost. |
+| The camera gets you wrong | A pickup you didn't make, or "away" while you're sitting there: record a few minutes of exactly that with `--collect` and retrain ([camera.md](camera.md#when-it-gets-things-wrong)). |
 | Something's off | `focus status`, then [Troubleshooting](install.md#troubleshooting). |
 
 ## Quick reference
